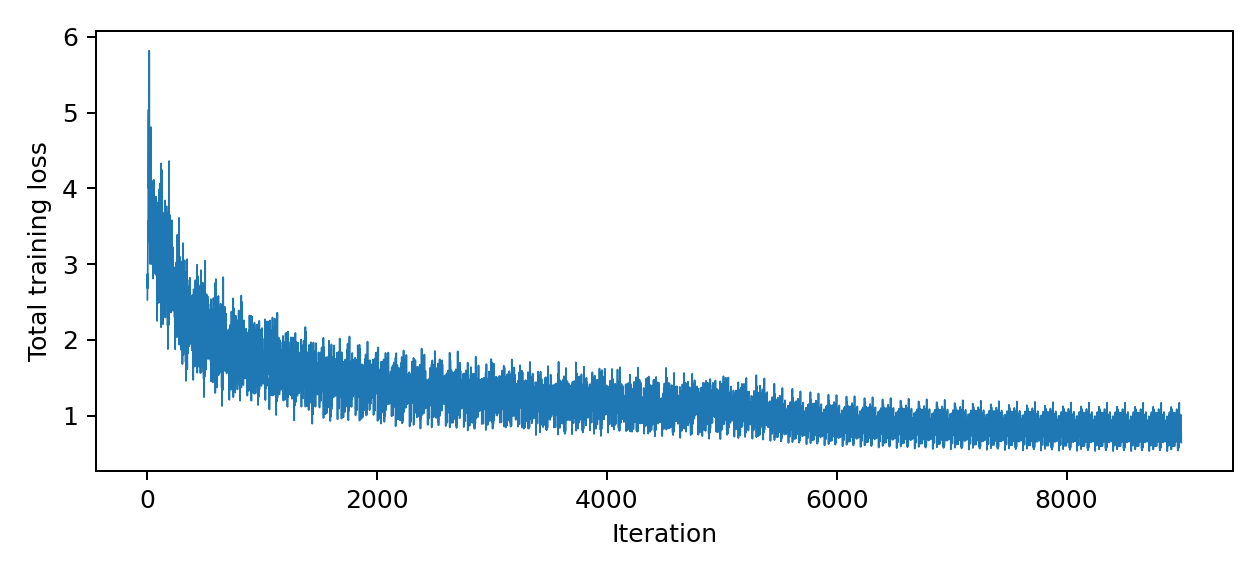
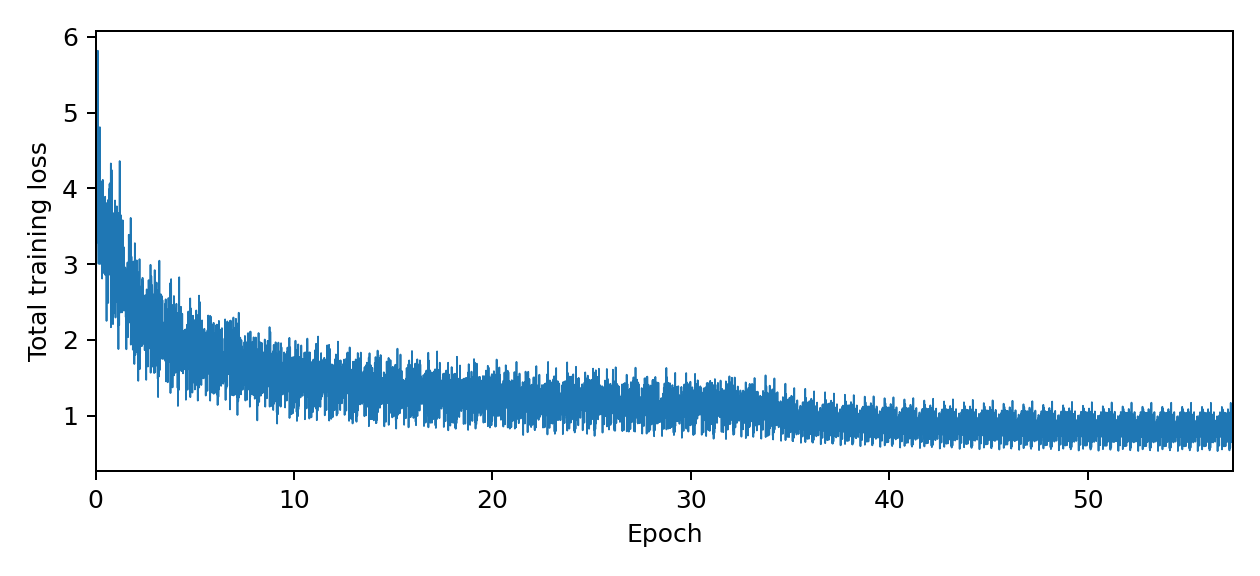
Verify FCOS overfitting with training and validation losses

diff --git a/detection/overfit_diagnostic.py b/detection/overfit_diagnostic.py
@@ -1,0 +1,174 @@
+"""Measure training and validation loss on the starter's small FCOS subset."""
+import argparse
+import hashlib
+import json
+import os
+from pathlib import Path
+import re
+import shutil
+import subprocess
+import sys
+
+import torch
+from torch.utils.data import DataLoader, Subset
+from torch.utils.tensorboard import SummaryWriter
+
+from detection_helper import inference_with_detector
+from one_stage_detector import FCOS
+from train import create_dataset_and_dataloaders
+
+COURSE = Path(__file__).resolve().parents[2]
+
+
+@torch.no_grad()
+def measure_loss(model, loader, device, normalizer):
+    """Use frozen batch statistics and one fixed loss scale for both splits."""
+    previous_mode = model.training
+    previous_normalizer = model._normalizer
+    model.eval()
+    model._normalizer = normalizer
+    totals = {}
+    count = 0
+    try:
+        for _, images, boxes in loader:
+            losses = model(images.to(device), boxes.to(device))
+            for name, value in losses.items():
+                totals[name] = totals.get(name, 0.0) + value.item() * len(images)
+            count += len(images)
+    finally:
+        model._normalizer = previous_normalizer
+        model.train(previous_mode)
+    result = {name: value / count for name, value in totals.items()}
+    result['total'] = sum(result.values())
+    return result
+
+
+def measure_map(model, dataset, directory, device):
+    """Run the supplied inference writer and an unchanged Cartucho evaluator."""
+    directory.mkdir(parents=True, exist_ok=True)
+    shutil.copy2(COURSE / 'tools/mAP/main.py', directory / 'main.py')
+    loader = DataLoader(dataset, batch_size=1, num_workers=4, pin_memory=True)
+    inference_with_detector(model, loader, dataset.dataset.idx_to_class,
+                            score_thresh=0.4, nms_thresh=0.6,
+                            output_dir=str(directory / 'input'), device=device)
+    with (directory / 'evaluator.log').open('w') as log:
+        subprocess.run([sys.executable, str(directory / 'main.py'),
+                        '--no-animation', '--no-plot', '--quiet'],
+                       stdout=log, stderr=subprocess.STDOUT, check=True)
+    text = (directory / 'output/output.txt').read_text()
+    value = re.search(r'mAP = ([\d.]+)%', text)
+    if value is None:
+        raise RuntimeError('Cartucho did not produce an mAP result.')
+    classes = re.findall(r'([\d.]+)% = (\S+) AP', text)
+    return {'map_percent': float(value.group(1)),
+            'class_ap_percent': {name: float(ap) for ap, name in classes}}
+
+
+def main():
+    parser = argparse.ArgumentParser()
+    parser.add_argument('--epochs', type=int, default=400)
+    parser.add_argument('--run-name', default='fcos_160_epoch400_seed0')
+    args = parser.parse_args()
+    torch.manual_seed(0)
+    device = torch.device('cuda' if torch.cuda.is_available() else 'cpu')
+    run = COURSE / 'runs/q3_overfit_revision' / args.run_name
+    checkpoints = COURSE / 'checkpoints/q3_overfit_revision' / args.run_name
+    run.mkdir(parents=True, exist_ok=False)
+    checkpoints.mkdir(parents=True, exist_ok=False)
+
+    _, _, training, validation = create_dataset_and_dataloaders(subset=True)
+    val_indices = torch.linspace(0, len(validation) - 1, steps=320).long().tolist()
+    held_out = Subset(validation, val_indices)
+    train_paths = [training.dataset.instances[i][0] for i in training.indices]
+    val_paths = [validation.instances[i][0] for i in val_indices]
+    assert set(train_paths).isdisjoint(val_paths)
+    loaders = [DataLoader(dataset, batch_size=16, num_workers=4,
+                          pin_memory=True, persistent_workers=True)
+               for dataset in (training, held_out)]
+    model = FCOS(num_classes=20, fpn_channels=64, stem_channels=[64, 64]).to(device)
+    normalizer = float(model._normalizer)
+    iterations = args.epochs * len(loaders[0])
+    optimizer = torch.optim.SGD(model.parameters(), lr=0.005,
+                                momentum=0.9, weight_decay=1e-4)
+    scheduler = torch.optim.lr_scheduler.MultiStepLR(
+        optimizer, milestones=[int(0.6 * iterations), int(0.9 * iterations)])
+    sources = ['overfit_diagnostic.py', 'one_stage_detector.py',
+               'detection_helper.py', 'detection_utils.py', 'train.py']
+    settings = dict(command=[sys.executable] + sys.argv, cwd=os.getcwd(),
+                    seed=0, epochs=args.epochs, iterations=iterations,
+                    train_images=len(training), validation_images=len(held_out),
+                    train_indices=[int(i) for i in training.indices],
+                    validation_indices=val_indices, train_paths=train_paths,
+                    validation_paths=val_paths, batch_size=16, input_size=224,
+                    optimizer='SGD', lr=0.005, momentum=0.9, weight_decay=1e-4,
+                    scheduler_milestones=scheduler.milestones,
+                    scheduler_gamma=0.1, evaluation_normalizer=normalizer,
+                    score_threshold=0.4, nms_threshold=0.6, ap_iou=0.5,
+                    cuda_visible_devices=os.environ.get('CUDA_VISIBLE_DEVICES'),
+                    torch_version=torch.__version__,
+                    source_sha256={name: hashlib.sha256(
+                        (Path(__file__).parent / name).read_bytes()).hexdigest()
+                        for name in sources})
+    (run / 'settings.json').write_text(json.dumps(settings, indent=2))
+    writer = SummaryWriter(str(run))
+    history = []
+    maps = []
+    updates = 0
+    for epoch in range(args.epochs + 1):
+        if epoch:
+            model.train()
+            update_losses = []
+            for _, images, boxes in loaders[0]:
+                losses = model(images.to(device), boxes.to(device))
+                loss = sum(losses.values())
+                if not torch.isfinite(loss):
+                    raise RuntimeError(f'Non-finite loss at update {updates}.')
+                optimizer.zero_grad()
+                loss.backward()
+                optimizer.step()
+                scheduler.step()
+                writer.add_scalar('train/update_total', loss.item(), updates)
+                update_losses.append(loss.item())
+                updates += 1
+            writer.add_scalar('train/epoch_update_mean',
+                              sum(update_losses) / len(update_losses), epoch)
+        if epoch in (0, 1, 2) or epoch % 5 == 0 or epoch == args.epochs:
+            before = {name: value.clone() for name, value in model.state_dict().items()}
+            old_normalizer = model._normalizer
+            train_loss = measure_loss(model, loaders[0], device, normalizer)
+            val_loss = measure_loss(model, loaders[1], device, normalizer)
+            assert model._normalizer == old_normalizer
+            assert all(torch.equal(before[name], value)
+                       for name, value in model.state_dict().items())
+            record = dict(epoch=epoch, updates=updates,
+                          train=train_loss, validation=val_loss,
+                          lr=optimizer.param_groups[0]['lr'])
+            history.append(record)
+            (run / 'history.json').write_text(json.dumps(history, indent=2))
+            for split, losses in [('train', train_loss), ('validation', val_loss)]:
+                for name, value in losses.items():
+                    writer.add_scalar(f'eval/{split}/{name}', value, epoch)
+            writer.add_scalar('learning_rate', record['lr'], epoch)
+            writer.flush()
+            print(f"Epoch {epoch}: train={train_loss['total']:.6f}, "
+                  f"validation={val_loss['total']:.6f}", flush=True)
+        if epoch in (25, 100, args.epochs):
+            torch.save({'epoch': epoch, 'model': model.state_dict(),
+                        'optimizer': optimizer.state_dict(),
+                        'scheduler': scheduler.state_dict(),
+                        'normalizer': model._normalizer},
+                       checkpoints / f'epoch_{epoch}.pt')
+            result = dict(epoch=epoch,
+                          train=measure_map(model, training, run / f'ap_epoch{epoch}/train', device),
+                          validation=measure_map(model, held_out, run / f'ap_epoch{epoch}/validation', device))
+            maps.append(result)
+            (run / 'map_results.json').write_text(json.dumps(maps, indent=2))
+            for split in ('train', 'validation'):
+                writer.add_scalar(f'mAP/{split}', result[split]['map_percent'], epoch)
+            print('mAP:', json.dumps(result), flush=True)
+    writer.close()
+    print('Completed:', run, flush=True)
+
+
+if __name__ == '__main__':
+    main()

diff --git a/scripts/make_figures.py b/scripts/make_figures.py
@@ -1,5 +1,6 @@
 """Plot metrics where the starter supplies no plot; copy Cartucho's mAP plot."""
 from pathlib import Path
+import json
 import shutil
 import matplotlib.pyplot as plt
 from matplotlib.ticker import FuncFormatter, LogLocator
@@ -151,6 +152,48 @@ def q2_histograms():
         plt.close(fig)
 
 
+def q3_loss_curves():
+    history_path = ROOT.parent / 'runs/q3_overfit_revision/fcos_160_epoch400_seed0/history.json'
+    for mode in ['overfit', 'full']:
+        if mode == 'overfit' and history_path.exists():
+            history = json.loads(history_path.read_text())
+            if history[-1]['epoch'] != 400:
+                raise RuntimeError('Finish the overfit diagnostic before updating the report.')
+            epochs = [row['epoch'] for row in history]
+            best_epoch = min(history, key=lambda row: row['validation']['total'])['epoch']
+            zoom_end = min(epochs[-1], max(50, ((best_epoch + 49) // 25) * 25))
+            fig, axes = plt.subplots(2, 1, figsize=(7, 5.2))
+            for ax in axes:
+                ax.plot(epochs, [row['train']['total'] for row in history],
+                        label='Training subset (160 images)')
+                ax.plot(epochs, [row['validation']['total'] for row in history],
+                        label='Validation subset (320 images)', linestyle='--')
+                ax.axvline(best_epoch, color='0.45', linestyle=':',
+                           label=f'Lowest validation loss (epoch {best_epoch})')
+                ax.set(xlabel='Epoch', ylabel='Total loss (fixed normalization)')
+            axes[0].set(xlim=(0, epochs[-1]), title='Full run')
+            axes[0].legend()
+            axes[1].set(xlim=(0, zoom_end), title=f'Early run (epochs 0–{zoom_end})')
+            fig.tight_layout()
+            fig.savefig(FIGURES / 'q3_overfit.png', dpi=180)
+            plt.close(fig)
+            continue
+        components = [scalars('fcos_' + mode, 'train/loss_' + kind + '_' + mode)
+                      for kind in ['cls', 'box', 'ctr']]
+        fig, ax = plt.subplots(figsize=(7, 3.2))
+        steps = [v.step for v in components[0]]
+        assert all([v.step for v in values] == steps for values in components)
+        # Starter batch size 16: 160/16=10 subset updates per epoch;
+        # the full 2,501-image set has ceil(2501/16)=157 updates per epoch.
+        updates_per_epoch = 10 if mode == 'overfit' else 157
+        epochs = [(step + 1) / updates_per_epoch for step in steps]
+        ax.plot(epochs, [sum(v.value for v in row) for row in zip(*components)], linewidth=.7)
+        ax.set(xlabel='Epoch', ylabel='Total training loss', xlim=(0, epochs[-1]))
+        fig.tight_layout()
+        fig.savefig(FIGURES / f'q3_{mode}.png', dpi=180)
+        plt.close(fig)
+
+
 def main():
     FIGURES.mkdir(exist_ok=True)
     names = ['q1_bce_lr001_noaug', 'q1_bce_lr001_aug',
@@ -166,17 +209,7 @@ def main():
                                    ('learning_rate', 'lr', 'Learning rate')]:
             plot([(run, run)], tag, f'{question}_{suffix}.png', label)
     q2_histograms()
-    for mode in ['overfit', 'full']:
-        components = [scalars('fcos_' + mode, 'train/loss_' + kind + '_' + mode)
-                      for kind in ['cls', 'box', 'ctr']]
-        fig, ax = plt.subplots(figsize=(7, 3.2))
-        steps = [v.step for v in components[0]]
-        assert all([v.step for v in values] == steps for values in components)
-        ax.plot(steps, [sum(v.value for v in row) for row in zip(*components)], linewidth=.7)
-        ax.set(xlabel='Iteration', ylabel='Total training loss')
-        fig.tight_layout()
-        fig.savefig(FIGURES / f'q3_{mode}.png', dpi=180)
-        plt.close(fig)
+    q3_loss_curves()
     # This image is produced by the unmodified evaluator's draw_plot_func.
     shutil.copy2(ROOT.parent / 'tools/mAP/output/mAP.png', FIGURES / 'q3_map.png')
     print('Selected Q1:', best)

diff --git a/report/main.tex b/report/main.tex
@@ -515,8 +515,8 @@ In this problem, we'll be implementing supervised {\href{https://arxiv.org/abs/1
         % TODO ADD YOUR FIGURE HERE.
         \begin{figure}[H]
             \centering
-            \includegraphics[width=0.95\linewidth,height=0.42\textheight,keepaspectratio]{report/figures/q3_overfit.png}
-            \caption{Overfitting Training Curve}
+            \includegraphics[width=0.95\linewidth,height=0.62\textheight,keepaspectratio]{report/figures/q3_overfit.png}
+            \caption{Small-subset diagnostic: 160 training and 320 validation images over 400 epochs (4,000 updates). Both losses are measured in evaluation mode with the same fixed normalizer, 150. The lower panel shows early training, including the lowest logged validation loss.}
             \label{fig:overfit_plot}
         \end{figure}
         
@@ -525,7 +525,7 @@ In this problem, we'll be implementing supervised {\href{https://arxiv.org/abs/1
         \begin{figure}[H]
             \centering
             \includegraphics[width=0.95\linewidth,height=0.42\textheight,keepaspectratio]{report/figures/q3_full.png}
-            \caption{Full Training Curve}
+            \caption{Full training curve: original EMA-normalized minibatch losses.}
             \label{fig:full_loss_plot}
         \end{figure}
 
@@ -550,8 +550,8 @@ In this problem, we'll be implementing supervised {\href{https://arxiv.org/abs/1
         \item What can you conclude from the above visualizations? When does the model succeed or fail? How can you improve the results for the failure cases?
 
         \begin{solution}
-Figure~\ref{fig:overfit_plot} shows that loss decreased overall after an
-early rise, but still fluctuated around 2.2 near the end. This shows a better
+Figure~\ref{fig:overfit_plot} shows overfitting after about epoch 120:
+training loss continued to fall while validation loss increased. This shows a better
 fit to the small training subset, rather than complete memorization. In Figure~\ref{fig:full_loss_plot}, full-training loss decreased and finished
 around 0.8.
 

diff --git a/detection/one_stage_detector.py b/detection/one_stage_detector.py
@@ -315,7 +315,8 @@ class FCOS(nn.Module):
                 during training.
 
         Returns:
-            Losses during training and predictions during inference.
+            Losses when ground-truth boxes are provided, otherwise predictions
+            during inference. Evaluation with boxes keeps batch statistics frozen.
         """
 
         ######################################################################
@@ -344,7 +345,7 @@ class FCOS(nn.Module):
         #                           END OF YOUR CODE                         #
         ######################################################################
 
-        if not self.training:
+        if not self.training and gt_boxes is None:
             # During inference, just go to this method and skip rest of the
             # forward pass.
             # fmt: off
@@ -390,10 +391,11 @@ class FCOS(nn.Module):
         pred_boxreg_deltas = self._cat_across_fpn_levels(pred_boxreg_deltas)
         pred_ctr_logits = self._cat_across_fpn_levels(pred_ctr_logits)
 
-        # Perform EMA update of normalizer by number of positive locations.
+        # Update the normalizer only while training; evaluation must not change it.
         num_pos_locations = (matched_gt_boxes[:, :, 4] != -1).sum()
         pos_loc_per_image = num_pos_locations.item() / images.shape[0]
-        self._normalizer = 0.9 * self._normalizer + 0.1 * pos_loc_per_image
+        if self.training:
+            self._normalizer = 0.9 * self._normalizer + 0.1 * pos_loc_per_image
 
         ######################################################################
         # TODO: Calculate losses per location for classification, box reg and

diff --git a/README.md b/README.md
@@ -82,6 +82,40 @@ Figure 3.3 is copied directly from `../tools/mAP/output/mAP.png`, produced by Ca
 
 The few correctness fixes outside TODOs are moving the detector writer's close call after training, retaining ground truth for images with zero predictions, honoring the evaluation output directory, and putting the classifier in evaluation mode for its final score. The final score is logged before closing the classification writer; the `SimpleCNN` import selects the Q1 loss without changing function signatures. Other changes outside TODOs keep large artifacts out of the source/submission folders and set the detector's seed to 0.
 
+## Small-subset overfitting diagnostic
+
+Figure 3.1 uses a separate diagnostic; the original 250-update run and the full-training checkpoint remain under `../runs/starter_revision/` and `../checkpoints/starter_revision/`. The diagnostic keeps the starter's 160 evenly spaced training images, 224-pixel inputs, batch size 16, seed 0, and SGD (learning rate 0.005, momentum 0.9, weight decay 0.0001). It extends training to 400 epochs, or 4,000 updates, with the same scheduler rule: multiply the rate by 0.1 at 60% and 90% of the updates. A fixed 320-image subset of the separate validation split supplies the validation curve; its images never enter the optimizer.
+
+From `detection/`, run:
+
+```shell
+CUDA_VISIBLE_DEVICES=1 python overfit_diagnostic.py --epochs 400 --run-name fcos_160_epoch400_seed0
+```
+
+Logs, settings, source hashes, losses, and AP results are saved under `../runs/q3_overfit_revision/fcos_160_epoch400_seed0/`; checkpoints go under `../checkpoints/q3_overfit_revision/fcos_160_epoch400_seed0/`. Use a different run name for another experiment. Training and validation losses are measured at epochs 0, 1, 2, and every five epochs, in evaluation mode without gradients or changes to batch statistics. Both use the same fixed normalizer, 150, so changes in the training EMA cannot create an apparent validation-loss trend. The optimizer still uses the original EMA-normalized loss. Each plotted point averages all images in its subset.
+
+The only changes to `FCOS.forward` allow evaluation with supplied ground-truth boxes to return losses and keep the EMA frozen during evaluation. Training and ordinary inference follow their existing paths. Runtime checks verify that each loss evaluation preserves the weights, buffers, and training normalizer.
+
+At epochs 25, 100, and 400, the supplied inference writer and an unchanged copy of Cartucho's evaluator measure AP on both subsets (confidence 0.4, NMS IoU 0.6, evaluation IoU 0.5). These are diagnostic subset scores, separate from the full-validation result in Figure 3.3. Centerness has soft targets, so fitting those targets exactly does not require a zero total loss.
+
+The lowest measured validation loss was 1.3099 at epoch 120. Training loss then fell from 0.6944 to 0.5499, while validation loss rose to 1.4844 at epoch 400. This shows loss-based overfitting after about epoch 120.
+
+| Epoch | Training-subset mAP | Validation-subset mAP |
+| --- | --- | --- |
+| 25 | 0.30% | 0.18% |
+| 100 | 29.42% | 1.66% |
+| 400 | 93.95% | 7.79% |
+
+Both AP calculations include all 20 classes. The large final gap shows a strong fit to the small training subset with poor generalization; training detections are not perfect. Validation AP still improves across these checkpoints even though validation loss increases later, so the loss-based conclusion does not mean that every validation metric deteriorates.
+
+To regenerate only the Q3 loss figures from the repository root:
+
+```shell
+python -c 'from scripts.make_figures import q3_loss_curves; q3_loss_curves()'
+```
+
+Both loss figures use epochs. The original full run has 157 updates per epoch (2,501 images, batch size 16); Figure 3.2 keeps its original loss values.
+
 ## Report and submission
 
 ```shell
